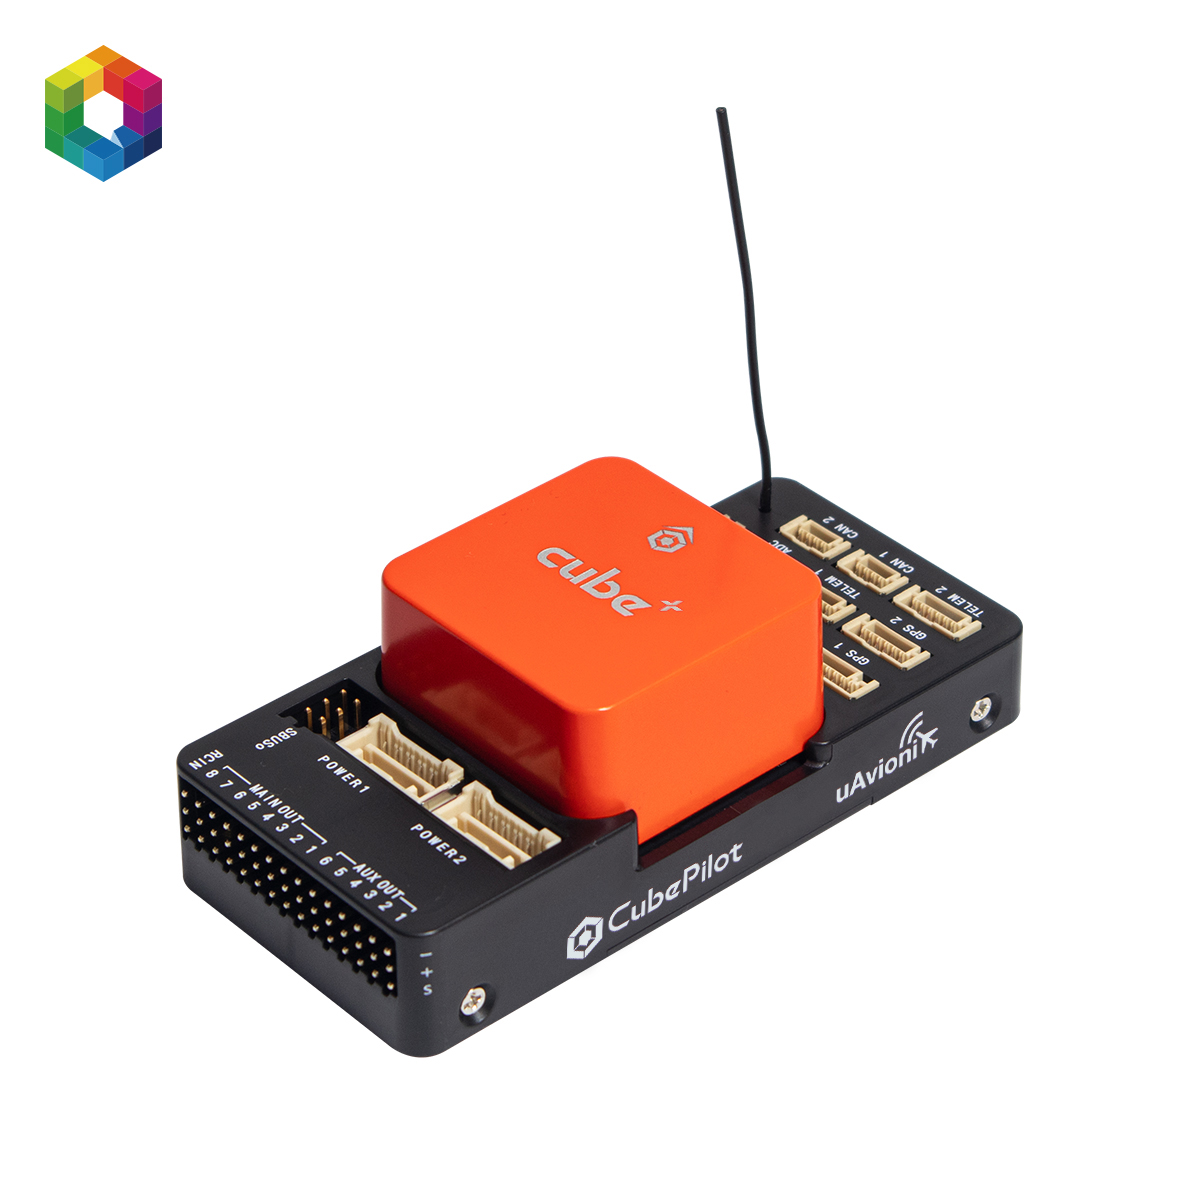
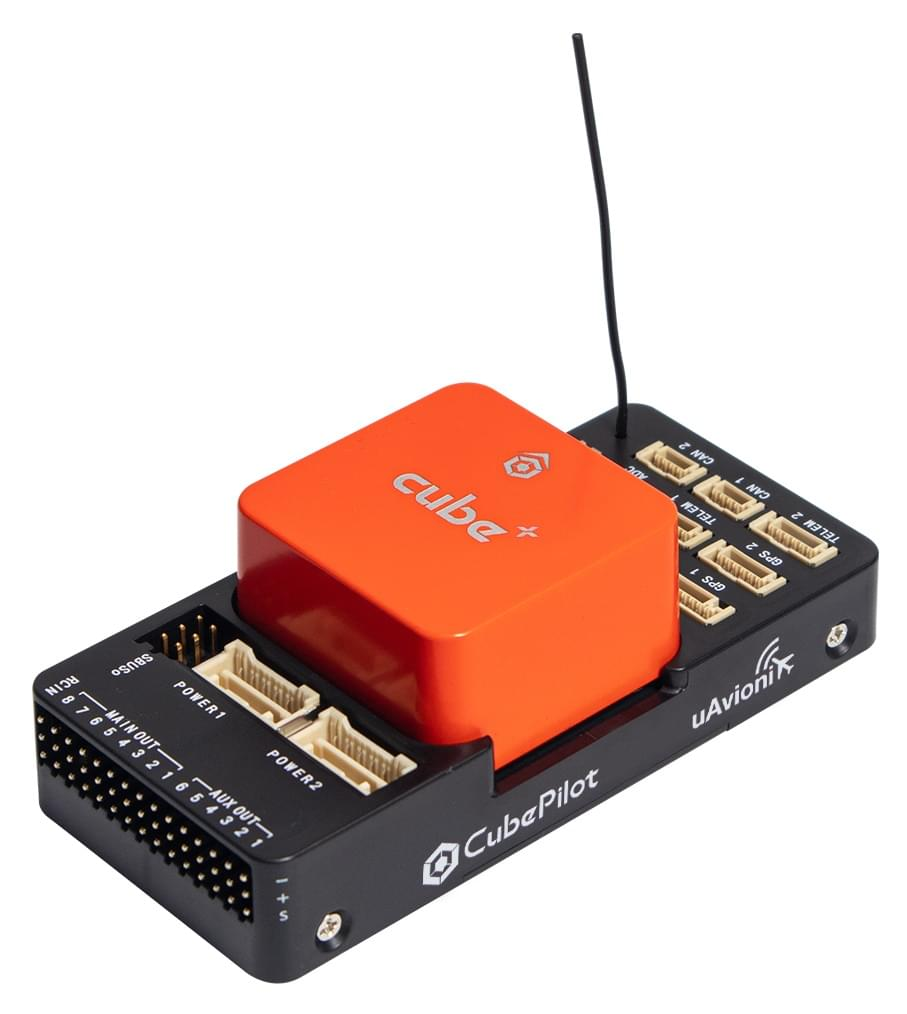
CubeOrangePlus - use image

diff --git a/en/flight_controller/cubepilot_cube_orangeplus.md b/en/flight_controller/cubepilot_cube_orangeplus.md
@@ -7,7 +7,7 @@ Contact the [manufacturer](https://cubepilot.org/#/home) for hardware support or
 
 The [Cube Orange+](https://www.cubepilot.com/#/cube/features) flight controller is a flexible autopilot intended primarily for manufacturers of commercial systems.
 
-![Cube Orange](../../assets/flight_controller/cube/orange/cube_orange_hero.jpg)
+![Cube Orange](../../assets/flight_controller/cube/orangeplus/cubepilot_cube_orangeplus_standard_set.jpg)
 
 The controller is designed to be used with a domain-specific carrier board in order to reduce the wiring, improve reliability, and ease of assembly.
 For example, a carrier board for a commercial inspection vehicle might include connections for a companion computer, while a carrier board for a racer could includes ESCs for the frame of the vehicle.
@@ -21,23 +21,23 @@ The manufacturer [Cube Docs](https://docs.cubepilot.org/user-guides/autopilot/th
 
 ## Key Features
 
-* 32bit STM32H743ZI (32bit [ARM Cortex M7](https://en.wikipedia.org/wiki/ARM_Cortex-M#Cortex-M7), 400 MHz, Flash 2MB, RAM 1MB).
-* 32 bit STM32F103 failsafe co-processor
-* 14 PWM / Servo outputs (8 with failsafe and manual override, 6 auxiliary, high-power compatible)
-* Abundant connectivity options for additional peripherals (UART, I2C, CAN)
-* Integrated backup system for in-flight recovery and manual override with dedicated processor and stand-alone power supply (fixed-wing use)
-* Backup system integrates mixing, providing consistent autopilot and manual override mixing modes (fixed wing use)
-* Redundant power supply inputs and automatic failover
-* External safety switch
-* Multicolor LED main visual indicator
-* High-power, multi-tone piezo audio indicator
-* microSD card for high-rate logging over extended periods of time
+- 32bit STM32H743ZI (32bit [ARM Cortex M7](https://en.wikipedia.org/wiki/ARM_Cortex-M#Cortex-M7), 400 MHz, Flash 2MB, RAM 1MB).
+- 32 bit STM32F103 failsafe co-processor
+- 14 PWM / Servo outputs (8 with failsafe and manual override, 6 auxiliary, high-power compatible)
+- Abundant connectivity options for additional peripherals (UART, I2C, CAN)
+- Integrated backup system for in-flight recovery and manual override with dedicated processor and stand-alone power supply (fixed-wing use)
+- Backup system integrates mixing, providing consistent autopilot and manual override mixing modes (fixed wing use)
+- Redundant power supply inputs and automatic failover
+- External safety switch
+- Multicolor LED main visual indicator
+- High-power, multi-tone piezo audio indicator
+- microSD card for high-rate logging over extended periods of time
 
 
-<span id="stores"></span>
+<a id="stores"></a>
 ## Where to Buy
 
-* [Reseller list](https://www.cubepilot.com/#/reseller/list)
+- [Reseller list](https://www.cubepilot.com/#/reseller/list)
 
 ## Assembly
 
@@ -45,47 +45,47 @@ The manufacturer [Cube Docs](https://docs.cubepilot.org/user-guides/autopilot/th
 
 ## Specifications
 
-* **Processor:**
-  * STM32H757 (32bit [ARM Cortex M7](https://en.wikipedia.org/wiki/ARM_Cortex-M#Cortex-M7))
-  * 480 MHz
-  * 1 MB RAM
-  * 2 MB Flash \(fully accessible\)
-* **Failsafe co-processor:** <!-- inconsistent info on failsafe processor: 32 bit STM32F103 failsafe co-processor http://www.proficnc.com/all-products/191-pixhawk2-suite.html -->
-  * STM32F103 (32bit *ARM Cortex-M3*)
-  * 24 MHz
-  * 8 KB SRAM
-* **Sensors:** (all connected via SPI)
-  * **Accelerometer:** (3) ICM42688p, ICM20948, ICM20649
-  * **Gyroscope:** (3) ICM42688p, ICM20948, ICM20649
-  * **Compass:** (1) ICM20948
-  * **Barometric Pressure Sensor:** (2) MS5611
-* **Operating Conditions:**
-  * **Operating Temp:** -10C to 55C
-  * **IP rating/Waterproofing:** Not waterproof
-  * **Servo rail input voltage:** 3.3V / 5V
-  * **USB port input:**
-    * Voltage: 4V - 5.7V
-    * Rated current: 250 mA
-  * **POWER:**
-    * Input voltage: 4.1V - 5.7V
-    * Rated input current: 2.5A
-    * Rated input/output power: 14W
-* **Dimensions:**
+- **Processor:**
+  - STM32H757 (32bit [ARM Cortex M7](https://en.wikipedia.org/wiki/ARM_Cortex-M#Cortex-M7))
+  - 480 MHz
+  - 1 MB RAM
+  - 2 MB Flash \(fully accessible\)
+- **Failsafe co-processor:** <!-- inconsistent info on failsafe processor: 32 bit STM32F103 failsafe co-processor http://www.proficnc.com/all-products/191-pixhawk2-suite.html -->
+  - STM32F103 (32bit *ARM Cortex-M3*)
+  - 24 MHz
+  - 8 KB SRAM
+- **Sensors:** (all connected via SPI)
+  - **Accelerometer:** (3) ICM42688p, ICM20948, ICM20649
+  - **Gyroscope:** (3) ICM42688p, ICM20948, ICM20649
+  - **Compass:** (1) ICM20948
+  - **Barometric Pressure Sensor:** (2) MS5611
+- **Operating Conditions:**
+  - **Operating Temp:** -10C to 55C
+  - **IP rating/Waterproofing:** Not waterproof
+  - **Servo rail input voltage:** 3.3V / 5V
+  - **USB port input:**
+    - Voltage: 4V - 5.7V
+    - Rated current: 250 mA
+  - **POWER:**
+    - Input voltage: 4.1V - 5.7V
+    - Rated input current: 2.5A
+    - Rated input/output power: 14W
+- **Dimensions:**
   - **Cube:** 38.25mm x 38.25mm x 22.3mm
   - **Carrier:** 94.5mm x 44.3mm x 17.3mm
-* **Interfaces**
-  * IO Ports: 14 PWM servo outputs (8 from IO, 6 from FMU)
-  * 5x UART (serial ports), one high-power capable, 2x with HW flow control
-  * 2x CAN (one with internal 3.3V transceiver, one on expansion connector)
-  * **R/C inputs:**
+- **Interfaces**
+  - IO Ports: 14 PWM servo outputs (8 from IO, 6 from FMU)
+  - 5x UART (serial ports), one high-power capable, 2x with HW flow control
+  - 2x CAN (one with internal 3.3V transceiver, one on expansion connector)
+  - **R/C inputs:**
     - Spektrum DSM / DSM2 / DSM-X® Satellite compatible input
     - Futaba S.BUS® compatible input and output
     - PPM-SUM signal input
-  * RSSI (PWM or voltage) input
-  * I2C
-  * SPI
-  * 3.3v ADC input
-  * Internal microUSB port and external microUSB port extension
+  - RSSI (PWM or voltage) input
+  - I2C
+  - SPI
+  - 3.3v ADC input
+  - Internal microUSB port and external microUSB port extension
 
 ## Pinouts and Schematics
 
@@ -128,7 +128,7 @@ UART8  | /dev/ttyS5 | GPS2
 ## Building Firmware
 
 :::warning
-The firmware for Orange+ is not yet released as part of a release. It will be released once v1.14 is released.
+The firmware for Orange+ will be present in releases from PX4 v1.14.
 :::
 
 To [build PX4](../dev_setup/building_px4.md) for this target, open up the terminal and enter:
@@ -137,7 +137,8 @@ make cubepilot_cubeorangeplus
 ```
 
 :::note
-The  Cube Orange+ is different from the Cube Orange. Due to a power feature of the STM32H757 it required [updates in NuttX](https://github.com/PX4/NuttX/pull/214) and therefore a new board config, bootloader, build target, etc. Therefore, the binaries are not compatible between Orange and Orange+.
+The firmware for Cube Orange+ and Cube Orange is not compatible.
+Due to a power feature of the STM32H757 it required [updates in NuttX](https://github.com/PX4/NuttX/pull/214) and therefore a new board config, bootloader, build target, etc.
 :::
 
 ## Further Information/Documentation
